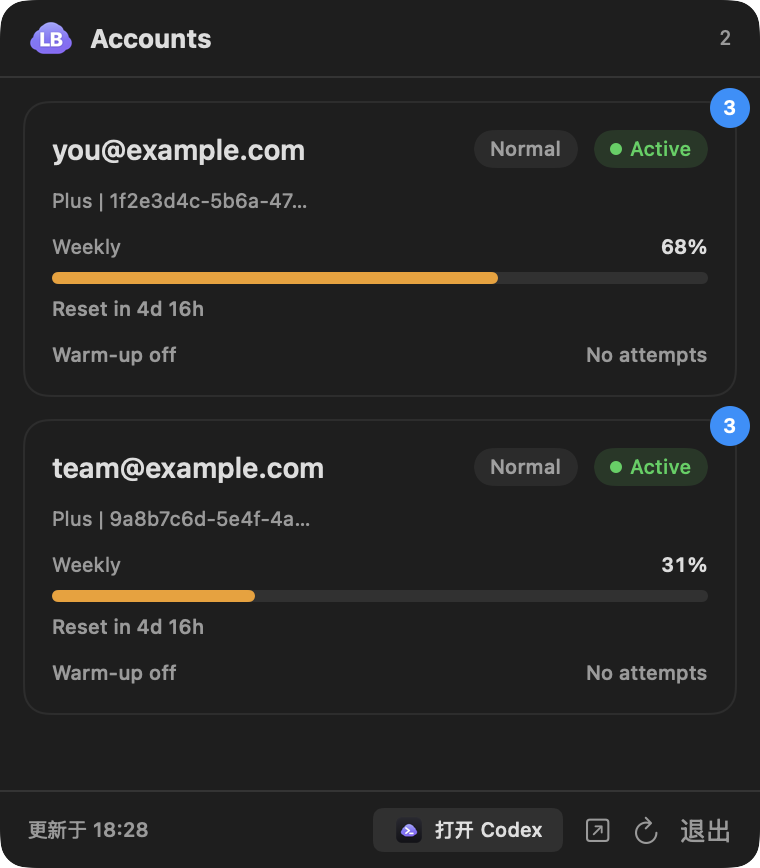
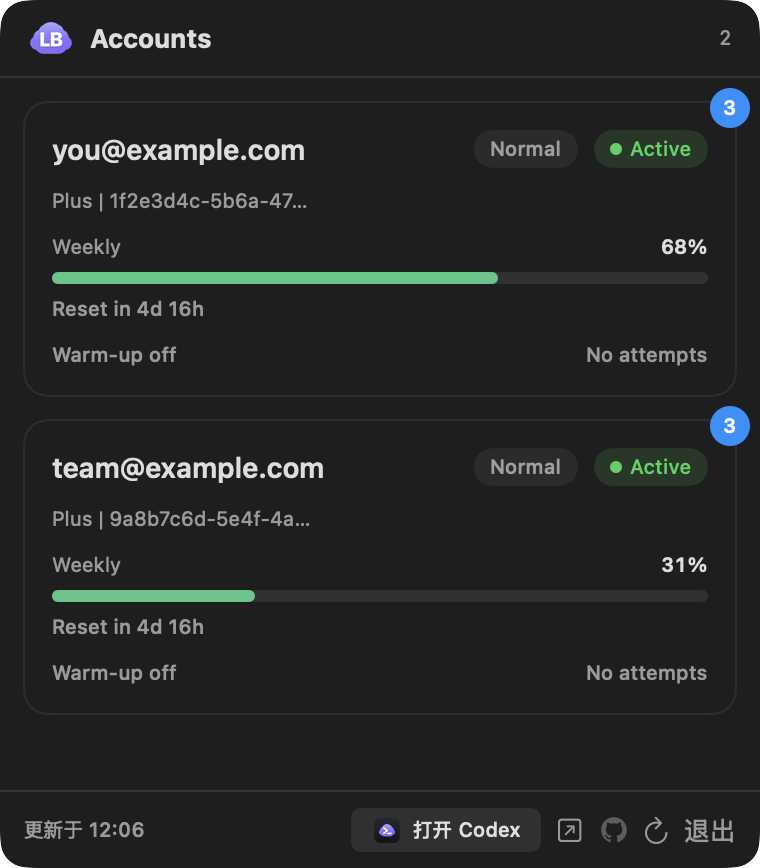
feat: green usage bar + GitHub repo button in the footer
- Weekly-usage bar is now green (red only when nearly empty)
- Footer button opens the GitHub repo, using a real GitHub mark rendered
  from the Octicons SVG path (new `github` mode in MakeIcon)
- Regenerate README screenshots to reflect both changes

diff --git a/Tools/MakeIcon.swift b/Tools/MakeIcon.swift
@@ -111,6 +111,126 @@ func drawTile(_ S: CGFloat) {
     tile.stroke()
 }
 
+// MARK: - GitHub mark (rendered from the official Octicons SVG path)
+
+/// Tokenise an SVG path's `d` string into command letters and numbers,
+/// correctly splitting forms like `-.17` and `.4.07`.
+func tokenizeSVG(_ d: String) -> [String] {
+    var out: [String] = []
+    var num = ""
+    func flush() { if !num.isEmpty { out.append(num); num = "" } }
+    for ch in d {
+        if ch.isLetter {
+            flush(); out.append(String(ch))
+        } else if ch == "-" {
+            if num.isEmpty || num.last == "e" || num.last == "E" { num.append(ch) }
+            else { flush(); num = "-" }
+        } else if ch == "." {
+            if num.contains(".") { flush(); num = "." } else { num.append(ch) }
+        } else if ch.isNumber || ch == "e" || ch == "E" {
+            num.append(ch)
+        } else {
+            flush() // separators
+        }
+    }
+    flush()
+    return out
+}
+
+/// Approximate an SVG elliptical arc with cubic Béziers (points mapped via `flip`).
+func appendArc(_ path: NSBezierPath, from p0: NSPoint, to p1: NSPoint,
+               rx: CGFloat, ry: CGFloat, rotationDeg: CGFloat,
+               largeArc: Bool, sweep: Bool, flip: (NSPoint) -> NSPoint) {
+    if rx == 0 || ry == 0 { path.line(to: flip(p1)); return }
+    let phi = rotationDeg * .pi / 180
+    let cosPhi = cos(phi), sinPhi = sin(phi)
+    let dx = (p0.x - p1.x) / 2, dy = (p0.y - p1.y) / 2
+    let x1p =  cosPhi * dx + sinPhi * dy
+    let y1p = -sinPhi * dx + cosPhi * dy
+    var rxx = abs(rx), ryy = abs(ry)
+    let lambda = (x1p * x1p) / (rxx * rxx) + (y1p * y1p) / (ryy * ryy)
+    if lambda > 1 { let s = sqrt(lambda); rxx *= s; ryy *= s }
+    let sign: CGFloat = (largeArc != sweep) ? 1 : -1
+    let numer = max(0, rxx*rxx*ryy*ryy - rxx*rxx*y1p*y1p - ryy*ryy*x1p*x1p)
+    let denom = rxx*rxx*y1p*y1p + ryy*ryy*x1p*x1p
+    let coef = sign * sqrt(numer / denom)
+    let cxp =  coef * (rxx * y1p / ryy)
+    let cyp = -coef * (ryy * x1p / rxx)
+    let cx = cosPhi * cxp - sinPhi * cyp + (p0.x + p1.x) / 2
+    let cy = sinPhi * cxp + cosPhi * cyp + (p0.y + p1.y) / 2
+    func ang(_ ux: CGFloat, _ uy: CGFloat, _ vx: CGFloat, _ vy: CGFloat) -> CGFloat {
+        let dot = ux*vx + uy*vy
+        let len = sqrt((ux*ux + uy*uy) * (vx*vx + vy*vy))
+        var a = acos(max(-1, min(1, dot / len)))
+        if ux*vy - uy*vx < 0 { a = -a }
+        return a
+    }
+    let theta1 = ang(1, 0, (x1p - cxp) / rxx, (y1p - cyp) / ryy)
+    var dtheta = ang((x1p - cxp) / rxx, (y1p - cyp) / ryy, (-x1p - cxp) / rxx, (-y1p - cyp) / ryy)
+    if !sweep && dtheta > 0 { dtheta -= 2 * .pi }
+    if sweep && dtheta < 0 { dtheta += 2 * .pi }
+    let segs = max(1, Int(ceil(abs(dtheta) / (.pi / 2))))
+    let delta = dtheta / CGFloat(segs)
+    let t = 4.0 / 3.0 * tan(delta / 4)
+    func E(_ a: CGFloat) -> NSPoint {
+        NSPoint(x: cosPhi * rxx * cos(a) - sinPhi * ryy * sin(a) + cx,
+                y: sinPhi * rxx * cos(a) + cosPhi * ryy * sin(a) + cy)
+    }
+    func dE(_ a: CGFloat) -> NSPoint {
+        NSPoint(x: -cosPhi * rxx * sin(a) - sinPhi * ryy * cos(a),
+                y: -sinPhi * rxx * sin(a) + cosPhi * ryy * cos(a))
+    }
+    var a = theta1
+    for _ in 0..<segs {
+        let p1e = E(a), p2e = E(a + delta)
+        let d1 = dE(a), d2 = dE(a + delta)
+        let c1 = NSPoint(x: p1e.x + t * d1.x, y: p1e.y + t * d1.y)
+        let c2 = NSPoint(x: p2e.x - t * d2.x, y: p2e.y - t * d2.y)
+        path.curve(to: flip(p2e), controlPoint1: flip(c1), controlPoint2: flip(c2))
+        a += delta
+    }
+}
+
+/// The GitHub "mark" (octocat), fit into rect R with SVG's y-axis flipped.
+func githubPath(in R: CGRect) -> NSBezierPath {
+    let d = "M8 0C3.58 0 0 3.58 0 8c0 3.54 2.29 6.53 5.47 7.59.4.07.55-.17.55-.38 0-.19-.01-.82-.01-1.49-2.01.37-2.53-.49-2.69-.94-.09-.23-.48-.94-.82-1.13-.28-.15-.68-.52-.01-.53.63-.01 1.08.58 1.23.82.72 1.21 1.87.87 2.33.66.07-.52.28-.87.51-1.07-1.78-.2-3.64-.89-3.64-3.95 0-.87.31-1.59.82-2.15-.08-.2-.36-1.02.08-2.12 0 0 .67-.21 2.2.82.64-.18 1.32-.27 2-.27.68 0 1.36.09 2 .27 1.53-1.04 2.2-.82 2.2-.82.44 1.1.16 1.92.08 2.12.51.56.82 1.27.82 2.15 0 3.07-1.87 3.75-3.65 3.95.29.25.54.73.54 1.48 0 1.07-.01 1.93-.01 2.2 0 .21.15.46.55.38A8.013 8.013 0 0 0 16 8c0-4.42-3.58-8-8-8z"
+    let s = R.width / 16.0
+    func flip(_ p: NSPoint) -> NSPoint { NSPoint(x: R.minX + p.x * s, y: R.maxY - p.y * s) }
+    let path = NSBezierPath()
+    let toks = tokenizeSVG(d)
+    var i = 0, cmd = ""
+    var cur = NSPoint.zero, start = NSPoint.zero
+    func n() -> CGFloat { defer { i += 1 }; return CGFloat(Double(toks[i]) ?? 0) }
+    while i < toks.count {
+        if let f = toks[i].first, f.isLetter {
+            cmd = toks[i]; i += 1
+            if cmd == "Z" || cmd == "z" { path.close(); cur = start; continue }
+        }
+        switch cmd {
+        case "M": let p = NSPoint(x: n(), y: n()); cur = p; start = p; path.move(to: flip(p)); cmd = "L"
+        case "m": let p = NSPoint(x: cur.x + n(), y: cur.y + n()); cur = p; start = p; path.move(to: flip(p)); cmd = "l"
+        case "L": let p = NSPoint(x: n(), y: n()); cur = p; path.line(to: flip(p))
+        case "l": let p = NSPoint(x: cur.x + n(), y: cur.y + n()); cur = p; path.line(to: flip(p))
+        case "C":
+            let c1 = NSPoint(x: n(), y: n()), c2 = NSPoint(x: n(), y: n()), e = NSPoint(x: n(), y: n())
+            path.curve(to: flip(e), controlPoint1: flip(c1), controlPoint2: flip(c2)); cur = e
+        case "c":
+            let c1 = NSPoint(x: cur.x + n(), y: cur.y + n())
+            let c2 = NSPoint(x: cur.x + n(), y: cur.y + n())
+            let e = NSPoint(x: cur.x + n(), y: cur.y + n())
+            path.curve(to: flip(e), controlPoint1: flip(c1), controlPoint2: flip(c2)); cur = e
+        case "A", "a":
+            let rx = n(), ry = n(), rot = n(), laf = n(), sf = n()
+            let e = cmd == "A" ? NSPoint(x: n(), y: n()) : NSPoint(x: cur.x + n(), y: cur.y + n())
+            appendArc(path, from: cur, to: e, rx: rx, ry: ry, rotationDeg: rot,
+                      largeArc: laf != 0, sweep: sf != 0, flip: flip)
+            cur = e
+        default: i += 1
+        }
+    }
+    return path
+}
+
 // ---- main ----
 let args = CommandLine.arguments
 guard args.count >= 4, let S = Double(args[2]) else {
@@ -147,10 +267,18 @@ NSGraphicsContext.saveGraphicsState()
 NSGraphicsContext.current = NSGraphicsContext(bitmapImageRep: rep)!
 NSGraphicsContext.current!.cgContext.clear(CGRect(x: 0, y: 0, width: CGFloat(Wpx), height: CGFloat(Hpx)))
 
-if mode == "app" {
-    drawTile(canvas)
+if mode == "github" {
+    // Solid octocat, centred — used as a template image (tinted by the button).
+    let inset = 0.06 * canvas
+    let R = CGRect(x: inset, y: inset, width: canvas - 2 * inset, height: canvas - 2 * inset)
+    NSColor.black.setFill()
+    githubPath(in: R).fill()
+} else {
+    if mode == "app" {
+        drawTile(canvas)
+    }
+    drawCloud(in: glyphRect, glyph: glyph)
 }
-drawCloud(in: glyphRect, glyph: glyph)
 
 NSGraphicsContext.restoreGraphicsState()
 guard let png = rep.representation(using: .png, properties: [:]) else {

diff --git a/Sources/ContentView.swift b/Sources/ContentView.swift
@@ -62,7 +62,7 @@ struct ContentView: View {
     }
 
     private var footer: some View {
-        HStack(spacing: 10) {
+        HStack(spacing: 7) {
             if let d = vm.lastUpdated {
                 Text("更新于 \(Self.timeFormatter.string(from: d))")
                     .font(.caption2)
@@ -100,6 +100,22 @@ struct ContentView: View {
             .help("在浏览器打开 accounts 页面")
 
             Button {
+                NSWorkspace.shared.open(Config.repoURL)
+            } label: {
+                if let gh = NSImage(named: "GitHubIcon") {
+                    Image(nsImage: gh)
+                        .renderingMode(.template)
+                        .resizable()
+                        .frame(width: 15, height: 15)
+                        .foregroundStyle(.secondary)
+                } else {
+                    Image(systemName: "chevron.left.forwardslash.chevron.right")
+                }
+            }
+            .buttonStyle(.borderless)
+            .help("GitHub 项目主页")
+
+            Button {
                 vm.refresh()
             } label: {
                 Image(systemName: "arrow.clockwise")
@@ -113,7 +129,7 @@ struct ContentView: View {
             .buttonStyle(.borderless)
             .foregroundStyle(.secondary)
         }
-        .padding(.horizontal, 14)
+        .padding(.horizontal, 12)
         .padding(.vertical, 8)
     }
 
@@ -272,9 +288,9 @@ struct ProgressBar: View {
     }
 
     private var barColor: Color {
-        // amber like the reference; nudges toward red when nearly empty
-        if fraction <= 0.1 { return .red }
-        return Color(red: 0.95, green: 0.62, blue: 0.11)
+        // green when healthy; red warning when nearly empty
+        if fraction <= 0.1 { return Color(red: 0.90, green: 0.30, blue: 0.24) }
+        return Color(red: 0.27, green: 0.78, blue: 0.53)
     }
 }
 

diff --git a/Tools/MakeScreenshot.swift b/Tools/MakeScreenshot.swift
@@ -19,8 +19,11 @@ struct MakeScreenshot {
         app.appearance = appearance
 
         // Register bundled icons under the names ContentView looks up.
-        for name in ["MenuIcon", "ChatGPTIcon"] {
-            if let img = NSImage(contentsOfFile: "Resources/\(name).png") { img.setName(name) }
+        for name in ["MenuIcon", "ChatGPTIcon", "GitHubIcon"] {
+            if let img = NSImage(contentsOfFile: "Resources/\(name).png") {
+                if name == "GitHubIcon" { img.isTemplate = true }
+                img.setName(name)
+            }
         }
 
         // Mocked accounts (fake emails/ids).

diff --git a/Sources/Config.swift b/Sources/Config.swift
@@ -21,4 +21,7 @@ enum Config {
 
     /// Web dashboard opened by the "open in browser" button.
     static var accountsPage: URL { baseURL.appendingPathComponent("accounts") }
+
+    /// This project's GitHub repository, opened by the footer GitHub button.
+    static let repoURL = URL(string: "https://github.com/AlexShang1992/codex-lb-menubar")!
 }

diff --git a/CHANGELOG.md b/CHANGELOG.md
@@ -9,8 +9,14 @@ and this project adheres to [Semantic Versioning](https://semver.org/spec/v2.0.0
 
 ### Added
 
+- Footer button that opens the project's GitHub repository, using a real GitHub
+  mark rendered from the Octicons SVG path (new `github` mode in `MakeIcon`).
 - `make screenshots` renders privacy-safe popover screenshots (mock data,
   off-screen via `Tools/MakeScreenshot.swift`) and the README now embeds them.
+
+### Changed
+
+- Weekly-usage bar is now green (with a red warning only when nearly empty).
 
 ## [1.0.2] - 2026-07-24
 
